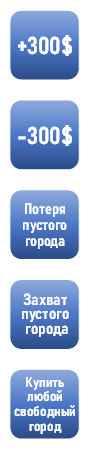
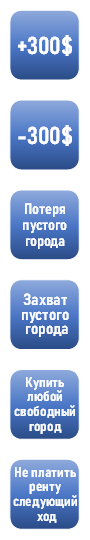
123

diff --git a/index.js b/index.js
@@ -1410,25 +1410,37 @@ sys_msg={
 	promise_resolve :0,
 
 	async add(t){
+		
+		console.log(sys_msg.promise_resolve,t)
 
-		if (this.promise_resolve) this.promise_resolve('forced');
+		if (this.promise_resolve) {
+			console.log('this.promise_resolve("forced")')
+			this.promise_resolve('forced');
+		}
 
 		sound.play('popup');
 
 		//показываем сообщение
 		objects.sys_msg_text.text=t;
 		const ares=await anim3.add(objects.sys_msg_cont,{alpha:[0,1,'linear']}, true, 0.25,false);
-		if (ares==='killed') return;
+		if (ares===2) {
+			console.log('anim3 killed')
+			return;
+		}
 
 		//ждем
 		const res = await new Promise(resolve => {
 				sys_msg.promise_resolve = resolve;
 				setTimeout(resolve,5000)
 			}
-		);
+		)
+		sys_msg.promise_resolve=0
 
 		//это если насильно закрываем
-		if (res==='forced') return;
+		if (res==='forced'){
+			console.log('resolved forced!')
+			return;
+		} 
 
 		anim3.add(objects.sys_msg_cont,{alpha:[1,0,'linear']}, false, 0.25,false);
 
@@ -2898,7 +2910,6 @@ city_dlg={
 
 	cur_cell:0,
 
-
 	check_buy(){
 
 		//проверяем можно ли строить
@@ -3019,7 +3030,7 @@ city_dlg={
 		if (cell.owner===2){
 			this.place_buttons(1)
 			btn2.alpha=0.5
-			btn2_t.alpha=0.5
+			//btn2_t.alpha=0.5
 			btn2_t.text='Куплено!'
 			btn2.pointerdown=function(){}
 			return
@@ -3064,7 +3075,7 @@ city_dlg={
 		//проверяем можно ли купить и строить
 		if (btn2.visible&&this.check_buy()!=='ok'){
 			btn2.alpha=0.5
-			btn2_t.alpha=0.5
+			//btn2_t.alpha=0.5
 		}
 
 	},
@@ -3092,7 +3103,7 @@ city_dlg={
 		}
 
 		if (check_buy_res==='not_all_complete'){
-			sys_msg.add('Нужно строить последовательно!')
+			sys_msg.add('Нужно строить последо вательно!')
 			return
 		}
 
@@ -3260,7 +3271,7 @@ auc={
 		if(data.type==='auc_buy'){
 			common.buy(2,this.cur_cell,this.new_bid)
 			objects.auc_cont.visible=false
-			sys_msg.add('Соперник купил!!!')
+			sys_msg.add('Соперник купил город!!!')
 		}
 
 		//соперник сразу отказался от аукциона, не хочет покупать или нет денег
@@ -3374,7 +3385,7 @@ auc={
 			sound.play('decline')
 			opponent.send({sender:my_data.uid,type:'auc_giveup',tm:Date.now()})
 			common.buy(2,this.cur_cell,this.cur_bid)
-			sys_msg.add('Вы проиграли аукцион. Соперник купил!')
+			sys_msg.add('Вы проиграли аукцион. Город купил соперник!')
 			objects.auc_cont.visible=false
 		}
 
@@ -3476,11 +3487,12 @@ casino={
 
 
 		clearInterval(this.roll_sound_timer)
-		const result=irnd(0,4)
+		const result=irnd(0,5)
 		objects.casino_icon.tilePosition.y=-90*result
 		let city_id=0
 		
 		if (result===0){
+			sound.play('lost300')
 			sys_msg.add('Вы выиграли 300 $')
 			common.change_money(1,300)
 		}
@@ -3518,7 +3530,11 @@ casino={
 			sound.play('can_buy_any_city')
 			common.casino_buy_bonus=1
 		}
-	
+		if (result===5){
+			sys_msg.add('Вы не платите ренту 3 хода!')
+			sound.play('can_buy_any_city')
+			common.my_no_rent_bonus=3
+		}
 		opponent.send({sender:my_data.uid,type:'casino_result',result,city_id,tm:Date.now()})
 
 		this.state='fin'
@@ -4331,7 +4347,7 @@ bot_game={
 			scheduler.add(()=>{common.sell(2,cell_to_sell)},1000)
 			scheduler.add(()=>{this.try_sell_some()},2000)
 		}else{
-			this.stop('my_win')
+			common.stop('my_win')
 		}
 
 	},
@@ -4465,7 +4481,7 @@ bot_game={
 		
 		common.process_opp_move({type:'casino_accept'})
 		
-		const result=irnd(0,4)
+		const result=irnd(0,5)
 		let city_id=0
 		
 		if (result===0){
@@ -4473,6 +4489,7 @@ bot_game={
 			common.change_money(2,300)
 		}
 		if (result===1){
+			sound.play('lost300')
 			sys_msg.add('Соперник проиграл 300 $')
 			common.change_money(2,-300)
 		}
@@ -4512,9 +4529,12 @@ bot_game={
 				}				
 			}
 			
-			sys_msg.add('Соперник не смог купил город по акции!')
+			sys_msg.add('Соперник не смог купить город по акции!')
 		}
-		
+		if (result===5){			
+			common.opp_no_rent_bonus=3
+			sys_msg.add('Соперник не платит ренту 3 хода!')
+		}
 		
 	}
 
@@ -4525,6 +4545,8 @@ common={
 	houses_num:30,
 	casino_buy_bonus:0,
 	chip_sound_timer:0,
+	my_no_rent_bonus:0,
+	opp_no_rent_bonus:0,
 
 	activate(){
 
@@ -4545,6 +4567,10 @@ common={
 		//начальный баланс
 		my_data.money=1000
 		opp_data.money=1000
+		
+		//бонусы не платить ренту
+		this.my_no_rent_bonus=0
+		this.opp_no_rent_bonus=0
 
 		//количество домов
 		this.houses_num=30
@@ -4757,8 +4783,7 @@ common={
 
 	},
 
-	async move_chip(chip, steps){
-		
+	async move_chip(chip, steps){		
 		
 		this.chip_sound_timer=setInterval(()=>{
 			if(!assets.chip_go.isPlaying)
@@ -4821,22 +4846,45 @@ common={
 		if (cell.owner===opp_player){
 
 			if (cell.type==='city'){
-				this.change_money(cur_player,-cell.rent[cell.level])
-				this.change_money(opp_player,+cell.rent[cell.level])
 				
-				sound.play('rent')
 				
-				if(cell.owner===1)
-					sys_msg.add(`Получите ренту: ${cell.rent[cell.level]}$`)
-				else
-					sys_msg.add(`Чужой город! Заплатите ренту: ${cell.rent[cell.level]}$`)
+				if (cell.owner===1){
+					//оппонент приземлился на мой участок
+					if (this.opp_no_rent_bonus){
+						sys_msg.add('Соперник не платит ренту')
+						sound.play('norent')
+					}else{
+						this.change_money(cur_player,-cell.rent[cell.level])
+						this.change_money(opp_player,+cell.rent[cell.level])
+						sys_msg.add(`Получите ренту: ${cell.rent[cell.level]}$`)
+						sound.play('rent')
+					}
+
+				}
+				
+				if (cell.owner===2){
+					//я приземлился на участок соперника
+					if(this.my_no_rent_bonus){
+						sys_msg.add('Вы не платите ренту')
+						sound.play('norent')
+					}else{
+						this.change_money(cur_player,-cell.rent[cell.level])
+						this.change_money(opp_player,+cell.rent[cell.level])
+						sys_msg.add(`Чужой город! Заплатите ренту: ${cell.rent[cell.level]}$`)
+						sound.play('rent')
+					}
+				}
+
 			}
 
 		}
 
+		//обнуляем бонусы
+		if (cur_player===1&&this.my_no_rent_bonus) this.my_no_rent_bonus--
+		if (cur_player===2&&this.opp_no_rent_bonus) this.opp_no_rent_bonus--
+
 		//можно покупать и продавать что захочешь
-		if (cur_player===1)
-			my_turn_started=1
+		if (cur_player===1) my_turn_started=1
 
 		//мой город
 		if (cell.owner===cur_player){
@@ -4878,8 +4926,6 @@ common={
 			if(cur_player===1)
 				plans.activate()
 		}
-
-		//city_dlg.show(cur_cell_id)
 
 		//завершение хода
 		if (cur_player===1){
@@ -4947,13 +4993,16 @@ common={
 					sys_msg.add('Соперник захватил Ваш город '+empty_city?.rus_name)					
 					
 				}else{
-					sys_msg.add('Соперник чуть не захватил Ваш город')
+					sys_msg.add('Соперник не смог захватить Ваш город')
 				}
 
 			}
-			
 			if (move_data.result===4){
 				sys_msg.add('Соперник может купить любой город')
+			}
+			if (move_data.result===5){
+				sys_msg.add('Соперник не платит ренту 3 хода!')
+				common.opp_no_rent_bonus=3
 			}
 		}
 
@@ -6794,6 +6843,8 @@ main_loader={
 		loader.add('casino_roll',git_src+'sounds/casino_roll.mp3');
 		loader.add('casino',git_src+'sounds/casino.mp3');
 		loader.add('decline',git_src+'sounds/decline.mp3');
+		loader.add('lost300',git_src+'sounds/lost300.mp3');
+		loader.add('norent',git_src+'sounds/norent.mp3');
 
 		//прогресс
 		loader.onProgress.add((l,res)=>{
